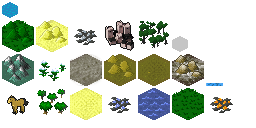
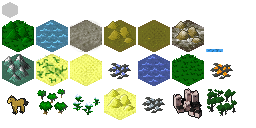
GameMap: Implement shallow ocean & floodplain tiles

diff --git a/server/src/me/rhin/openciv/server/game/map/GameMap.java b/server/src/me/rhin/openciv/server/game/map/GameMap.java
@@ -13,6 +13,7 @@ import me.rhin.openciv.server.Server;
 import me.rhin.openciv.server.game.Game;
 import me.rhin.openciv.server.game.map.tile.Tile;
 import me.rhin.openciv.server.game.map.tile.Tile.TileTypeWrapper;
+import me.rhin.openciv.server.game.map.tile.TileIndexer;
 import me.rhin.openciv.server.game.map.tile.TileType;
 import me.rhin.openciv.server.game.map.tile.TileType.TileLayer;
 import me.rhin.openciv.server.game.map.tile.TileType.TileProperty;
@@ -39,6 +40,7 @@ public class GameMap implements MapRequestListener {
 	private GenerationValue[][] stencilMap;
 	private GenerationValue[][] geographyMap;
 	private ArrayList<Rectangle> mapPartition;
+	private TileIndexer tileIndexer;
 
 	private int[][] oddEdgeAxis = { { 0, -1 }, { 1, -1 }, { 1, 0 }, { 1, 1 }, { 0, 1 }, { -1, 0 } };
 	private int[][] evenEdgeAxis = { { -1, -1 }, { 0, -1 }, { 1, 0 }, { 0, 1 }, { -1, 1 }, { -1, 0 } };
@@ -60,6 +62,7 @@ public class GameMap implements MapRequestListener {
 		}
 
 		this.mapPartition = new ArrayList<>();
+		this.tileIndexer = new TileIndexer(this);
 
 		initializeEdges();
 
@@ -495,8 +498,44 @@ public class GameMap implements MapRequestListener {
 						}
 					}
 					// System.out.println("Adding river to side: " + tileSide);
-					if (tile.getAdjTiles()[tileSide].getBaseTileType() != TileType.OCEAN)
+					if (tile.getAdjTiles()[tileSide].getBaseTileType() != TileType.OCEAN) {
 						tile.addRiverToSide(tileSide);
+
+						// 5 = left &
+						// 0 = bottom right
+						// 1 = bottom left
+						// 2 = right &
+						// 3 = top right
+						// 4 = top left
+
+						// 2 & 5
+						// 0 & 3
+						// 4 & 1
+						int otherSidedIndex = -1;
+						switch (tileSide) {
+						case 0:
+							otherSidedIndex = 3;
+							break;
+						case 1:
+							otherSidedIndex = 4;
+							break;
+						case 2:
+							otherSidedIndex = 5;
+							break;
+						case 3:
+							otherSidedIndex = 0;
+							break;
+						case 4:
+							otherSidedIndex = 1;
+							break;
+						case 5:
+							otherSidedIndex = 2;
+							break;
+						}
+
+						// Add river side to opposite angle of side.
+						tile.getAdjTiles()[tileSide].addRiverToSide(otherSidedIndex);
+					}
 
 					traversedVectors.add(nextVector);
 					currentVector = nextVector;
@@ -522,6 +561,23 @@ public class GameMap implements MapRequestListener {
 		generateResource(TileType.GEMS, game.getPlayers().size() * 4, TileType.GRASS, TileType.PLAINS, TileType.DESERT,
 				TileType.DESERT_HILL);
 
+		ArrayList<Tile> adjGroundTiles = new ArrayList<>();
+		adjGroundTiles.addAll(tileIndexer.getAdjacentTilesTo(TileType.GRASS));
+		adjGroundTiles.addAll(tileIndexer.getAdjacentTilesTo(TileType.PLAINS));
+		adjGroundTiles.addAll(tileIndexer.getAdjacentTilesTo(TileType.TUNDRA));
+
+		for (Tile tile : adjGroundTiles)
+			if (tile.getBaseTileType().hasProperty(TileProperty.WATER))
+				tile.setTileType(TileType.SHALLOW_OCEAN);
+
+		for (Tile tile : tileIndexer.getAdjacentTilesTo(TileType.SHALLOW_OCEAN))
+			if (tile.getBaseTileType() == TileType.OCEAN && rnd.nextInt(8) == 0)
+				tile.setTileType(TileType.SHALLOW_OCEAN);
+
+		for (Tile tile : tileIndexer.getAdjacentRiverTiles()) {
+			if (tile.getBaseTileType() == TileType.DESERT)
+				tile.setTileType(TileType.FLOODPLAINS);
+		}
 	}
 
 	private ArrayList<GenerationValue> generateRandomStencilChunk() {
@@ -779,5 +835,9 @@ public class GameMap implements MapRequestListener {
 			return true;
 
 		return false;
+	}
+
+	public TileIndexer getTileIndexer() {
+		return tileIndexer;
 	}
 }

diff --git a/server/src/me/rhin/openciv/server/game/map/tile/Tile.java b/server/src/me/rhin/openciv/server/game/map/tile/Tile.java
@@ -1,11 +1,14 @@
 package me.rhin.openciv.server.game.map.tile;
 
 import java.util.ArrayList;
+import java.util.Collections;
 import java.util.Iterator;
+import java.util.Set;
 import java.util.TreeSet;
 
 import com.badlogic.gdx.math.Vector2;
 
+import me.rhin.openciv.server.Server;
 import me.rhin.openciv.server.game.city.City;
 import me.rhin.openciv.server.game.map.GameMap;
 import me.rhin.openciv.server.game.map.tile.TileType.TileLayer;
@@ -36,7 +39,7 @@ public class Tile {
 	private static final int SIZE = 16;
 
 	private GameMap map;
-	private TreeSet<TileTypeWrapper> tileWrappers;
+	private Set<TileTypeWrapper> tileWrappers;
 	private StatLine statLine;
 	private float x, y, width, height;
 	private int gridX, gridY;
@@ -48,7 +51,7 @@ public class Tile {
 
 	public Tile(GameMap map, TileType tileType, float x, float y) {
 		this.map = map;
-		this.tileWrappers = new TreeSet<>();
+		this.tileWrappers = Collections.synchronizedSet(new TreeSet<TileTypeWrapper>());
 		tileWrappers.add(new TileTypeWrapper(tileType));
 		this.statLine = getStatLine();
 		this.x = x;
@@ -94,14 +97,49 @@ public class Tile {
 			return;
 
 		if (containsTileLayer(tileType.getTileLayer())) {
-			for (TileTypeWrapper tileWrapper : tileWrappers) {
+			Iterator<TileTypeWrapper> iterator = tileWrappers.iterator();
+
+			while (iterator.hasNext()) {
+				TileTypeWrapper tileWrapper = iterator.next();
+
 				// Find the tileType /w the exact layer and replace it.
+
 				if (tileWrapper.getTileType().getTileLayer() == tileType.getTileLayer())
-					tileWrappers.remove(tileWrapper);
+					iterator.remove();
+
+				for (Tile adjTile : getAdjTiles()) {
+					if (adjTile == null)
+						continue;
+
+					TileType adjTileType = tileWrapper.getTileType(); // One we remove.
+
+					// Check if we are still adjacent to that tile type
+					boolean removeAdjTile = true;
+					for (Tile exteriorTile : adjTile.getAdjTiles()) {
+
+						if (exteriorTile == null)
+							continue;
+
+						if (exteriorTile.containsTileType(adjTileType))
+							removeAdjTile = false;
+					}
+
+					if (removeAdjTile)
+						Server.getInstance().getGame().getMap().getTileIndexer().removeAdjacentTileType(adjTile,
+								tileWrapper.getTileType());
+				}
 			}
+
 		}
 		// Add the tileType to the Array in an ordered manner. note: this will never be
 		// a baseTile
+
+		for (Tile adjTile : getAdjTiles()) {
+			if (adjTile == null)
+				continue;
+			Server.getInstance().getGame().getMap().getTileIndexer().setAdjacentTileType(adjTile, tileType);
+		}
+
 		tileWrappers.add(new TileTypeWrapper(tileType));
 	}
 
@@ -141,7 +179,7 @@ public class Tile {
 		return ((TileTypeWrapper) tileWrappers.toArray()[tileWrappers.size() - 1]).getTileType();
 	}
 
-	public TreeSet<TileTypeWrapper> getTileTypeWrappers() {
+	public Set<TileTypeWrapper> getTileTypeWrappers() {
 		return tileWrappers;
 	}
 
@@ -309,6 +347,7 @@ public class Tile {
 
 	public void addRiverToSide(int side) {
 		this.riverSides[side] = true;
+		Server.getInstance().getGame().getMap().getTileIndexer().setAdjacentRiverTile(this);
 	}
 
 	public boolean[] getRiverSides() {

diff --git a/server/src/me/rhin/openciv/server/game/map/tile/TileIndexer.java b/server/src/me/rhin/openciv/server/game/map/tile/TileIndexer.java
@@ -1,0 +1,52 @@
+package me.rhin.openciv.server.game.map.tile;
+
+import java.util.HashMap;
+import java.util.concurrent.ConcurrentLinkedQueue;
+
+import me.rhin.openciv.server.game.map.GameMap;
+
+public class TileIndexer {
+
+	// All tiles adjacent to ocean
+
+	private HashMap<TileType, ConcurrentLinkedQueue<Tile>> tileTypeList;
+	private ConcurrentLinkedQueue<Tile> adjRiverTiles;
+
+	public TileIndexer(GameMap gameMap) {
+		this.tileTypeList = new HashMap<>();
+		this.adjRiverTiles = new ConcurrentLinkedQueue<>();
+
+		tileTypeList.put(TileType.OCEAN, new ConcurrentLinkedQueue<Tile>());
+		for (int x = 0; x < GameMap.WIDTH; x++) {
+			for (int y = 0; y < GameMap.HEIGHT; y++) {
+				tileTypeList.get(TileType.OCEAN).add(gameMap.getTiles()[x][y]);
+			}
+		}
+	}
+
+	public ConcurrentLinkedQueue<Tile> getAdjacentTilesTo(TileType tileType) {
+		return tileTypeList.get(tileType);
+	}
+
+	public void setAdjacentTileType(Tile adjTile, TileType tileType) {
+		// The tileType is from the original tile, and the adjTile is the adjacent tile.
+		if (tileTypeList.get(tileType) == null)
+			tileTypeList.put(tileType, new ConcurrentLinkedQueue<Tile>());
+		tileTypeList.get(tileType).add(adjTile);
+	}
+
+	public void removeAdjacentTileType(Tile adjTile, TileType tileType) {
+		if (tileTypeList.get(tileType) == null)
+			return;
+
+		tileTypeList.get(tileType).remove(adjTile);
+	}
+
+	public ConcurrentLinkedQueue<Tile> getAdjacentRiverTiles() {
+		return adjRiverTiles;
+	}
+
+	public void setAdjacentRiverTile(Tile tile) {
+		adjRiverTiles.add(tile);
+	}
+}

diff --git a/server/src/me/rhin/openciv/server/game/Game.java b/server/src/me/rhin/openciv/server/game/Game.java
@@ -414,6 +414,7 @@ public class Game
 			int rndX = -1;
 			int rndY = -1;
 
+			// FIXME: Use the tile indexer to locate habitable tiles
 			while (true) {
 				iterations++;
 
@@ -452,7 +453,8 @@ public class Game
 			tile.addUnit(new SettlerUnit(player, tile));
 
 			for (Tile adjTile : tile.getAdjTiles()) {
-				if (!adjTile.containsTileType(TileType.OCEAN) && !adjTile.containsTileType(TileType.MOUNTAIN)) {
+				if (!adjTile.getBaseTileType().hasProperty(TileProperty.WATER)
+						&& !adjTile.containsTileType(TileType.MOUNTAIN)) {
 					adjTile.addUnit(new WarriorUnit(player, adjTile));
 					break;
 				}
@@ -549,5 +551,9 @@ public class Game
 
 	public ColorHelper getColorHelper() {
 		return colorHelper;
+	}
+
+	public GameMap getMap() {
+		return map;
 	}
 }

diff --git a/core/src/me/rhin/openciv/game/map/tile/TileType.java b/core/src/me/rhin/openciv/game/map/tile/TileType.java
@@ -12,6 +12,7 @@ public enum TileType {
 	PLAINS(TextureEnum.TILE_PLAINS, TileLayer.BASE),
 	PLAINS_HILL(TextureEnum.TILE_PLAINS_HILL, 2, TileLayer.BASE),
 	DESERT(TextureEnum.TILE_DESERT, TileLayer.BASE),
+	FLOODPLAINS(TextureEnum.TILE_FLOODPLAINS, TileLayer.BASE),
 	DESERT_HILL(TextureEnum.TILE_DESERT_HILL, 2, TileLayer.BASE),
 	TUNDRA(TextureEnum.TILE_TUNDRA, TileLayer.BASE),
 	TUNDRA_HILL(TextureEnum.TILE_TUNDRA_HILL,TileLayer.BASE),

diff --git a/server/src/me/rhin/openciv/server/game/map/tile/TileType.java b/server/src/me/rhin/openciv/server/game/map/tile/TileType.java
@@ -63,6 +63,14 @@ public enum TileType implements Comparable<TileType> {
 			return statLine;
 		}
 	},
+	FLOODPLAINS(TileLayer.BASE) {
+		@Override
+		public StatLine getStatLine() {
+			StatLine statLine = new StatLine();
+			statLine.setValue(Stat.FOOD_GAIN, 2);
+			return statLine;
+		}
+	},
 	DESERT_HILL(TileLayer.BASE) {
 		@Override
 		public StatLine getStatLine() {

diff --git a/core/src/me/rhin/openciv/game/map/RiverPart.java b/core/src/me/rhin/openciv/game/map/RiverPart.java
@@ -66,6 +66,7 @@ public class RiverPart extends Actor {
 
 	@Override
 	public void draw(Batch batch, float parentAlpha) {
+		// FIXME: Don't draw on top of one another if there are two tile sides.
 		sprite.draw(batch);
 	}
 }

diff --git a/core/src/me/rhin/openciv/asset/TextureEnum.java b/core/src/me/rhin/openciv/asset/TextureEnum.java
@@ -14,6 +14,7 @@ public enum TextureEnum {
 	TILE_PLAINS,
 	TILE_PLAINS_HILL,
 	TILE_DESERT,
+	TILE_FLOODPLAINS,
 	TILE_DESERT_HILL,
 	TILE_TUNDRA,
 	TILE_TUNDRA_HILL,
